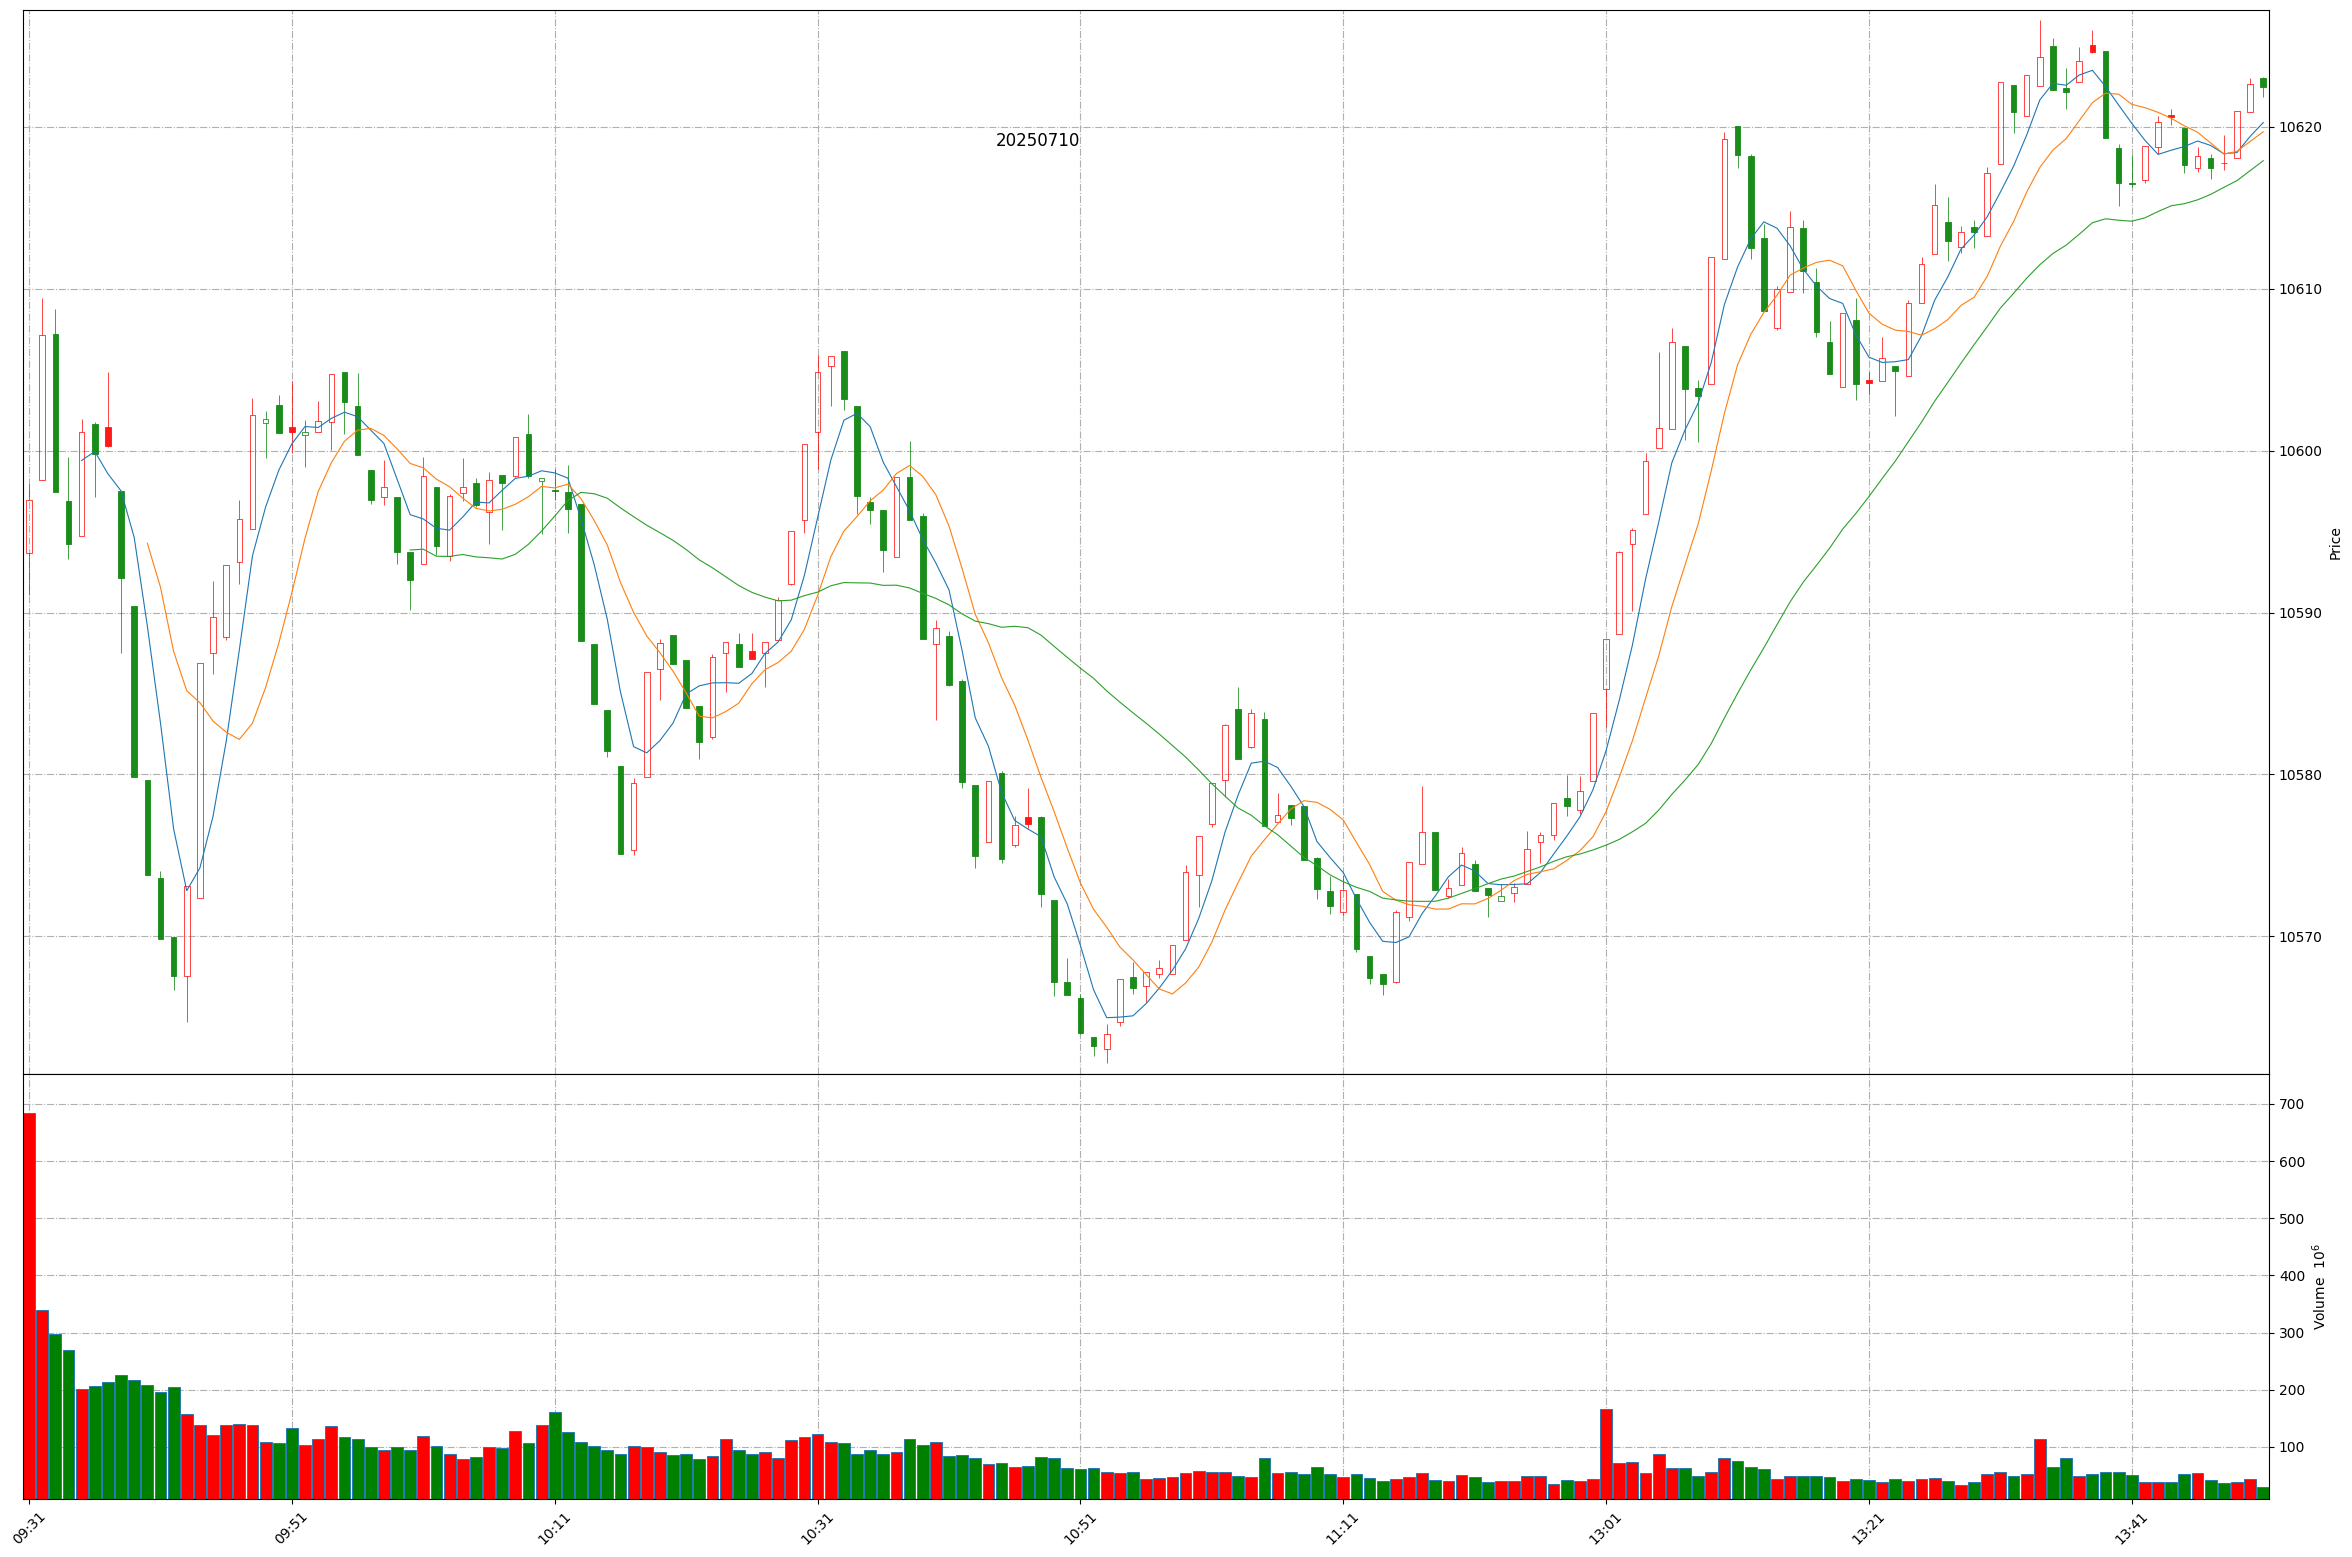
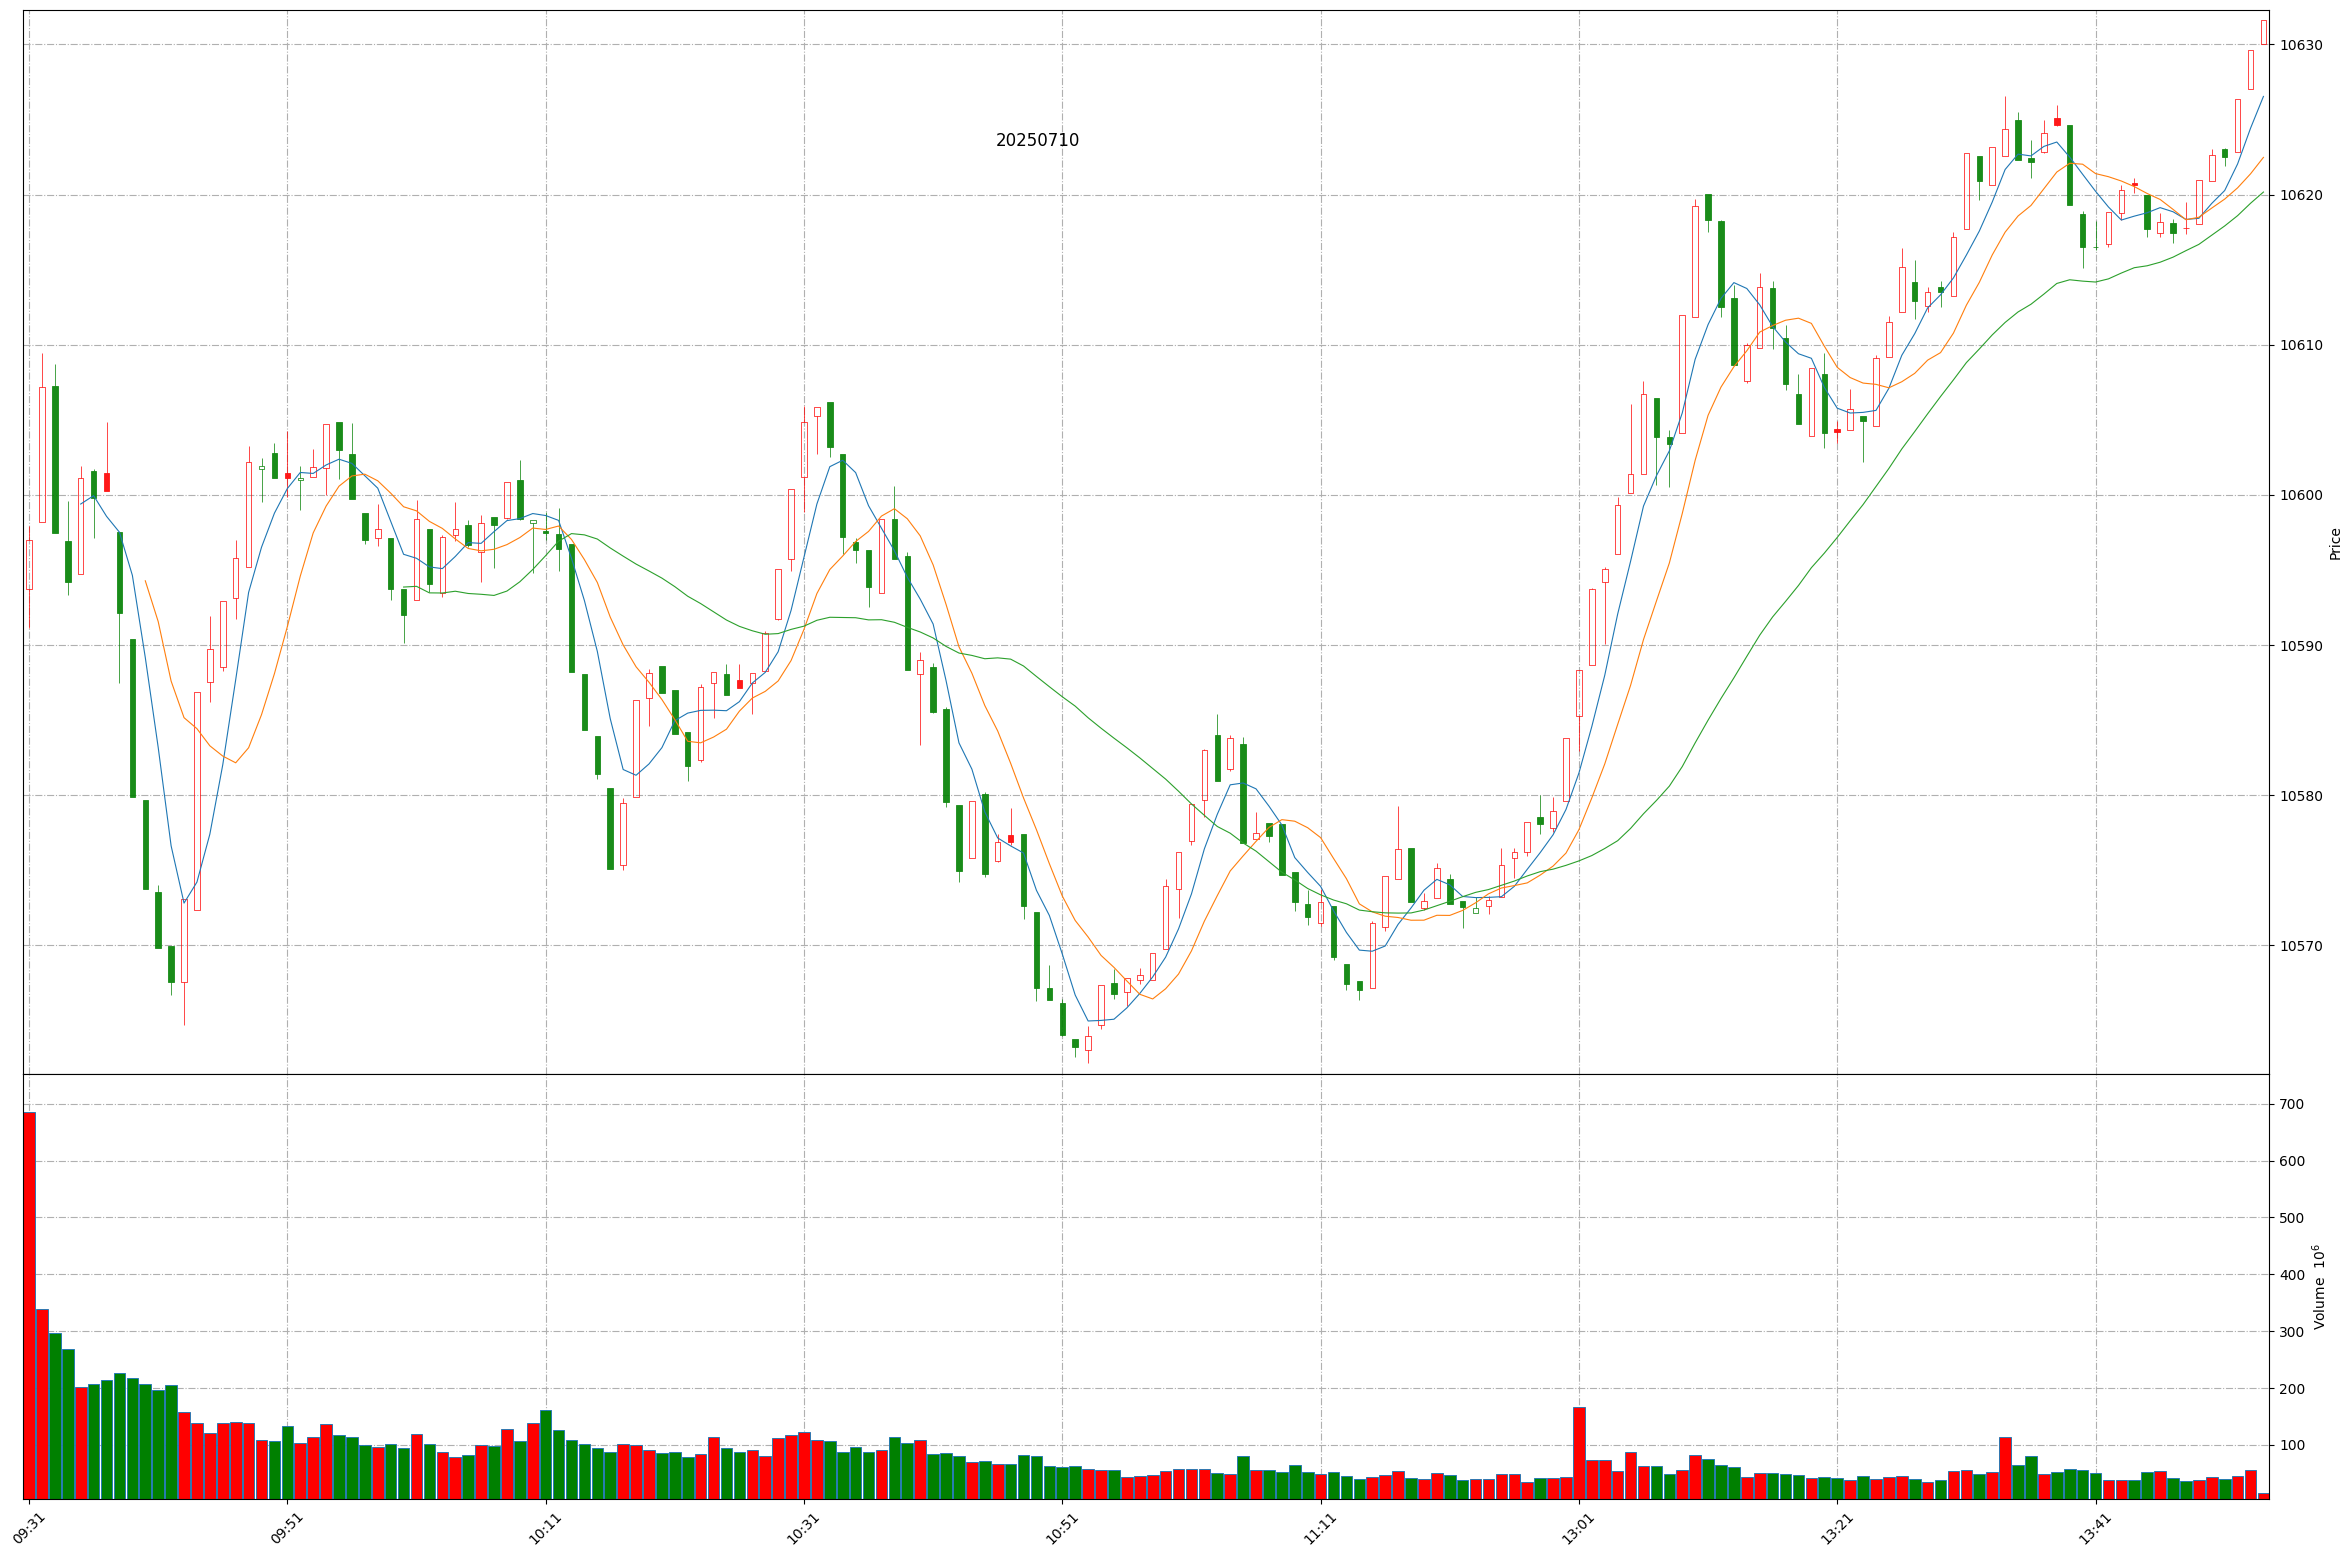
Github action update at 2025-07-10 13:53:31.

diff --git a/README.md b/README.md
@@ -1,11 +1,11 @@
 
 # Daily-A-share-market-quotes 每日 A 股指数（5min 更新）- 20250710
 
-### 上证指数 20250710 13:51
+### 上证指数 20250710 13:53
 ![](./fig/2025/7/20250710-sh000001.png)
 
-### 深证成指 20250710 13:51
+### 深证成指 20250710 13:53
 ![](./fig/2025/7/20250710-sz399001.png)
 
-### 北证50 20250710 13:51
+### 北证50 20250710 13:53
 ![](./fig/2025/7/20250710-bj899050.png)
